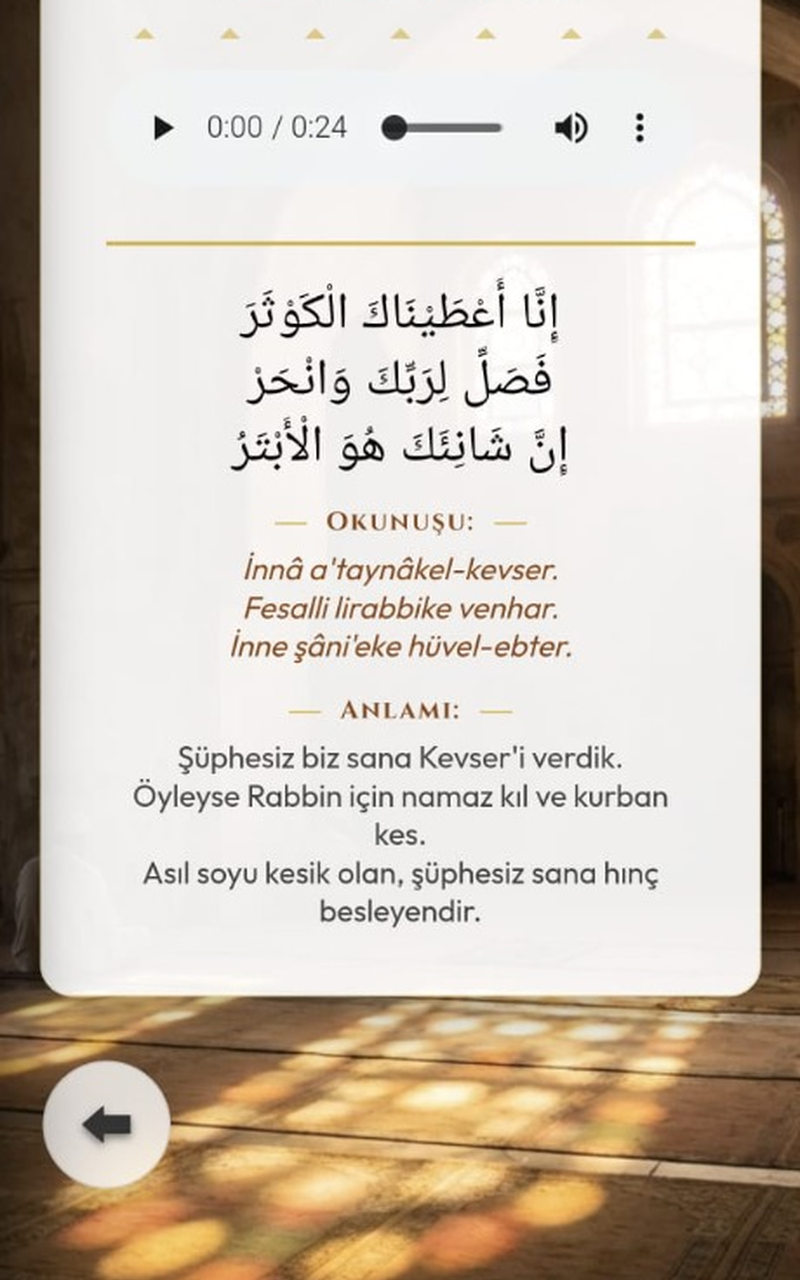
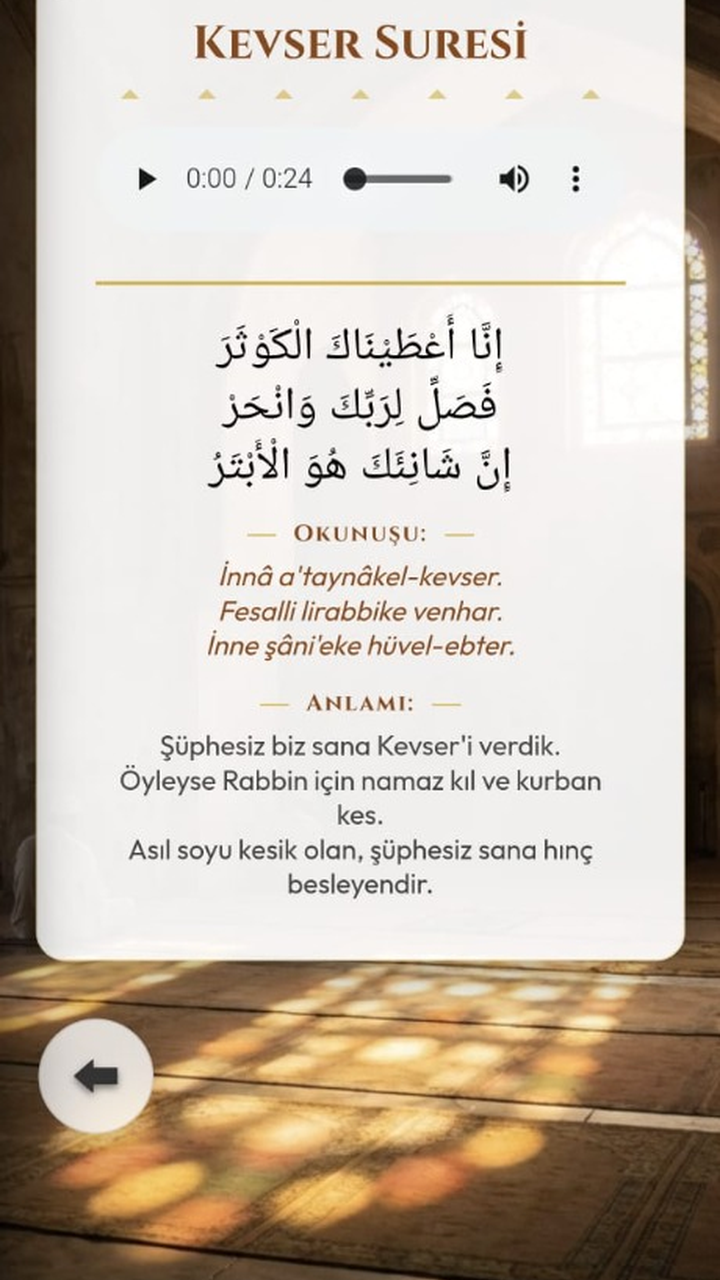
Update: Tablet screenshots to 9:16 ratio

diff --git a/process_images_tablet.py b/process_images_tablet.py
@@ -61,7 +61,7 @@ for i, filename in enumerate(TARGET_FILES):
     try:
         with Image.open(img_path) as img:
             # Create Tablet 7-inch version (800x1280) - Standard 7" Android Tablet Portrait
-            process_and_save(img, 800, 1280, "Tablet7", i)
+            process_and_save(img, 720, 1280, "Tablet7", i)
             
             # (Optional) Re-verify Phone version if needed, but user asked for Tablet *also*
             # process_and_save(img, 1080, 1920, "Phone", i) 
